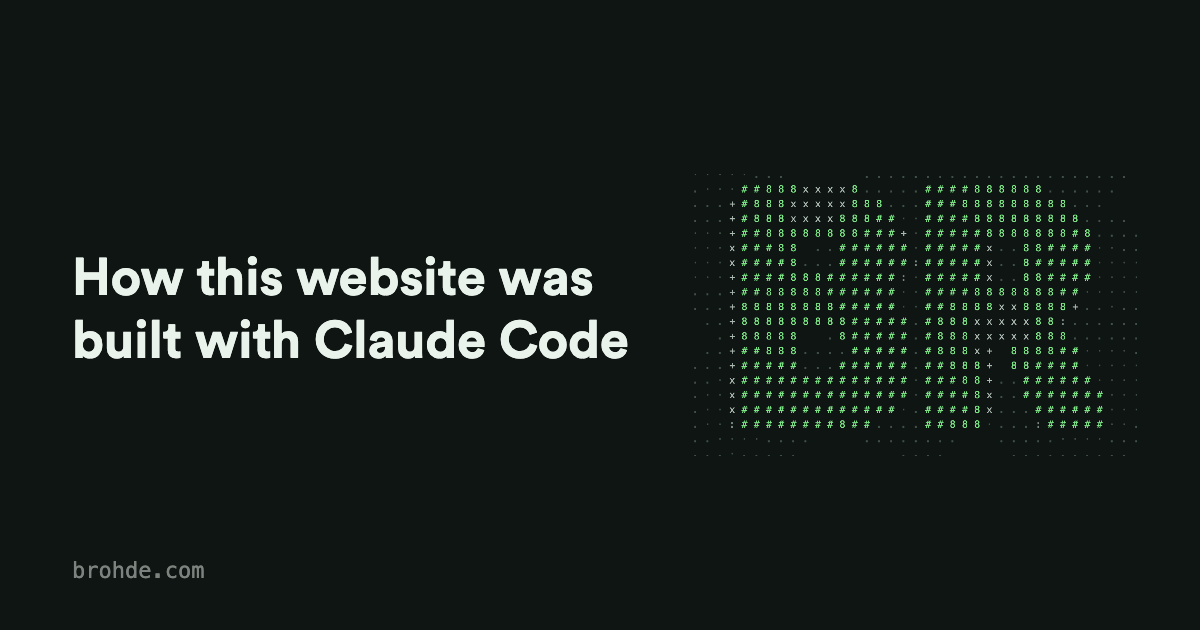
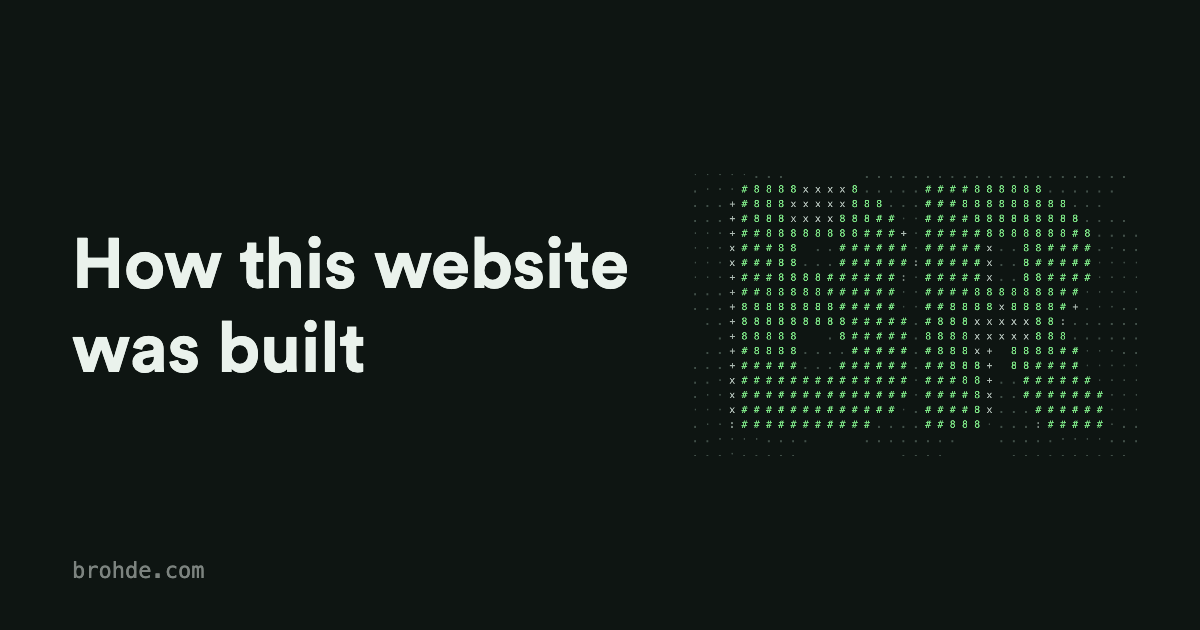
content(build-story): the verbatim kickoff prompt is the article; GitHub mark joins the toggle cluster, footer CTA link

Changed region(s): [[0.0617, 0.3619, 0.5242, 0.4825], [0.0617, 0.5127, 0.5242, 0.6032]]

diff --git a/src/styles/terminal.css b/src/styles/terminal.css
@@ -754,6 +754,23 @@ a.lentry:focus-visible .lttl {
   font-size: 13.5px;
   color: var(--dim);
 }
+/* the footer's quiet text link (the build-story CTA, 2026-07-22): the
+   dimlink grammar on the footer ground, rest dim, engage accent */
+.sfoot a {
+  color: var(--dim);
+  text-decoration: underline;
+  text-underline-offset: 0.28em;
+  text-decoration-thickness: 1px;
+  text-decoration-color: var(--dim);
+  transition:
+    color 120ms ease,
+    text-decoration-color 120ms ease;
+}
+.sfoot a:hover,
+.sfoot a:focus-visible {
+  color: var(--accent);
+  text-decoration-color: var(--accent);
+}
 .homepad {
   padding-top: 4px;
   padding-bottom: 36px;

diff --git a/src/content/articles/how-this-website-was-built/index.md b/src/content/articles/how-this-website-was-built/index.md
@@ -1,13 +1,59 @@
 ---
-title: "How this website was built with Claude Code"
-description: "See how brohde.com was built with Claude Code: every prompt, every decision, and the AI studio orchestration Brian designed, with the full source public on GitHub."
+title: "How this website was built"
+description: "See how brohde.com was built: every prompt, every decision, and the AI studio orchestration Brian designed, with the full source public on GitHub."
 date: 2026-07-22
 draft: false
 # full-body render on purpose (the one non-stub piece): Brian dictated this
-# body himself and it IS the whole article, two lines and the code link
+# body himself; the figure is his verbatim kickoff prompt (PLAN.md)
 published: true
 ---
 
-See how this website was built, including all of my prompts and the AI orchestration I designed.
+<figure>
 
-<p><a href="https://github.com/brohde/brohde.com" target="_blank" rel="noopener">View code <span aria-hidden="true">&#8599;</span></a></p>
+```text
+This is a new website for myself, brohde.com.
+
+It is designed to show potential clients a showcase of my work, link to my resume, link to my twitter (maybe).
+
+The homepage should link to an about page, or the about page content can live on the homepage since it's brief and informal. 
+
+The core of the website is a "blog" style archive that I will use to publish on the site. The main content I am publishing are:
+
+1) Thought leadership pieces - how I use AI, tips and strategies, etc.
+2) Project deep dives
+    - goldcoastcapm.com Freelance project
+    - WordPress to Astro site migration in under 4 hours
+    - Other work projects - if you check out archive.org of brohde.com, I have some big client names worth highlighting even though those were done several years ago.
+
+The homepage should list just the article titles and the date of publish. Since this is a new site, we'll pre-date articles. Also will pre-date articles that refer to old projects. The template can include an optional description.
+
+We won't have any personal branding, but we should have a unique look and feel - through font, colors, layout, animation, etc. 
+
+Tech stack - I've been using Astro and Tailwind, so let's go with this.
+
+Make sure you document all decisions we make. Keep the repo well organized as it expands. Use README files and the CLAUDE.md file effectively. Design and orchestrate work through sub-agents using the appropriate model and effort.
+
+You are the CEO of award winning design studio and have a team full of experts in design, engineering, copywriting, and more. As you assemble this highly skilled team, document it and their roles in the project and also create re-usable subagents for these experts. The experts roles can be refined over time as you see fit.
+
+You'll help me consider all unknown unkowns for all my requests, and help steer the project. The information I give you can be challenged because you are an expert - so don't be afriad to push back and provide recommendations.
+
+The website should follow all modern web development practices, highly accessible on mobile, SEO, and LLMs.
+
+Ask me questions for any more input! Also maintain a running log of our communications starting from now. Sub agents don't need to be logged in detail; only when I ask questions and when you reply to me.  But, be sure to log the sub agent work that is delgated (i.e. what you send and what you get back)
+
+Make sure when I clear a sesion or compact a session with you, I can pick up a new session at ANY point because you will have always maintained the context and details needed without me asking you to do so.
+
+Ask me any questions to get started.
+
+Also, make sure you work as concurrently as possible (i.e. sub agents) anytime I ask you to do something. Remember when I ask you, this is a partnership so always make sure my asks are understood and help me refine/push back/etc like a great partner would do.
+
+To start, I want to come up with 3 design concepts as an artifact.
+
+Make sure you think of this project and all of the different steps in an organized way that makes the most sense to get this thing live and have it be the best portfolio site for me that highlights the work and articles .
+```
+
+<figcaption>The original prompt that kickstarted this whole site, typos and all, exactly as I wrote it. It ships in the repo verbatim as PLAN.md.</figcaption>
+
+</figure>
+
+<p><a href="https://github.com/brohde/brohde.com" target="_blank" rel="noopener">View code</a></p>
